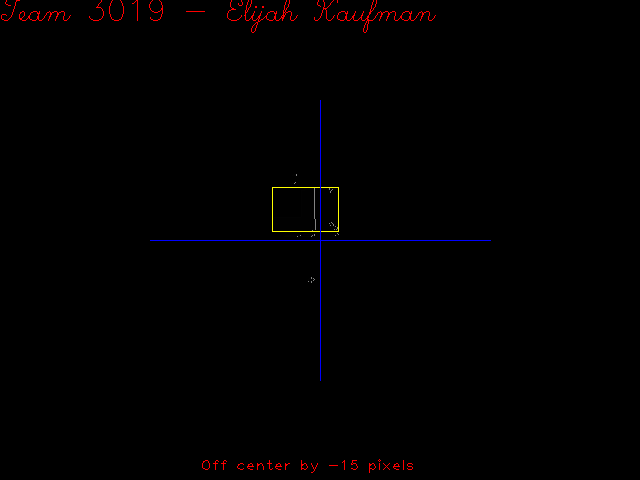
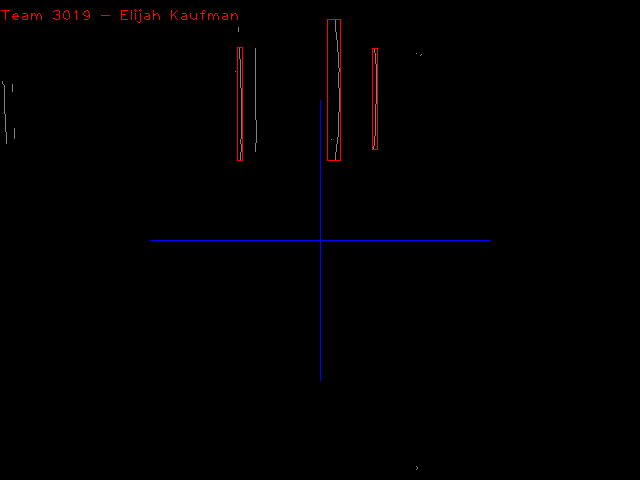
added more features

diff --git a/src/com/team3019/VisionCode/YellowToteTracker.java b/src/com/team3019/VisionCode/YellowToteTracker.java
@@ -18,6 +18,8 @@ import org.opencv.core.Scalar;
 import org.opencv.highgui.Highgui;
 import org.opencv.imgproc.Imgproc;
 
+import edu.wpi.first.wpilibj.networktables.NetworkTable;
+
 /*
  * @author: Elijah Kaufman and his team
  * 
@@ -27,7 +29,8 @@ import org.opencv.imgproc.Imgproc;
 
 
 public class YellowToteTracker{
-	public static Scalar Red,Blue,Green,Yellow,thresh_Lower,thresh_Higher;
+	public static Scalar Red,Blue,Green,Yellow,thresh_Lower,thresh_Higher,grey_Lower,grey_higher;
+	static NetworkTable table;
 	public static void main(String[] args) {
 		//required for openCV to work -call before any functions of oCV are used
 		System.loadLibrary(Core.NATIVE_LIBRARY_NAME);
@@ -35,15 +38,24 @@ public class YellowToteTracker{
 		Blue = new Scalar(255, 0, 0);
 		Green = new Scalar(0, 255, 0);
 		Yellow = new Scalar(0, 255, 255);
-		thresh_Lower = new Scalar(50,145,0);
-		thresh_Higher = new Scalar(255,255,60);
+		//for tape
+		thresh_Lower = new Scalar(62,102,0);
+		thresh_Higher = new Scalar(255,255,47);
+		//for grey tote
+		grey_Lower = new Scalar(48,60,35);
+		grey_higher = new Scalar(81,84,54);
 		
-		
+		NetworkTable.setClientMode();
+		NetworkTable.setIPAddress("roborio-3019.local");
+		table = NetworkTable.getTable("SmartDashboard");
 		
 		//main loop of the program
+		
 		while(true){
 			try {
-				processImage();
+				while(table.isConnected()){
+					processImage();
+				}
 			} catch (Exception e) {
 				// TODO Auto-generated catch block
 				e.printStackTrace();
@@ -63,10 +75,12 @@ public class YellowToteTracker{
 			ImageIO.write(img, "png", new File("frame.png"));
 			//time for the OpenCV fun!
 			Mat frame = new Mat();
-			frame = Highgui.imread("frame.png");
+			Mat grey = new Mat();
+			Mat original = new Mat();
+			original = Highgui.imread("frame.png");
 			ArrayList<MatOfPoint> contours = new ArrayList<>();
 			//applies a threshhold in the form of BlueGreenRed
-			Core.inRange(frame, thresh_Lower, thresh_Higher, frame);
+			Core.inRange(original, thresh_Lower, thresh_Higher, frame);
 			//find the cluster of particles
 			Imgproc.findContours(frame, contours, new Mat(), Imgproc.RETR_EXTERNAL, Imgproc.CHAIN_APPROX_SIMPLE);
 			Imgproc.cvtColor(frame, frame, Imgproc.COLOR_GRAY2BGR);
@@ -143,6 +157,7 @@ public class YellowToteTracker{
 						string = "Two totes stacked";
 						Core.line(frame, new Point(bb1.x+bb1.width/2,bb1.y+bb1.height/2),
 								new Point(bb2.x+bb2.width/2,bb2.y+bb2.height/2), Green);
+						//System.out.println(Math.abs((bb1.y + bb1.height/2) - (bb2.y + bb2.height)));
 					}
 					else{
 					string = "Two totes found";
@@ -151,15 +166,65 @@ public class YellowToteTracker{
 				else{
 					//knowing how far off the center of the image you can set your robot to align with it, essentially going towards it
 					string = "Off center by " + (bb1.x + bb1.width/2 - 320) + " pixels";
+					table.putNumber("Off Center", (bb1.x + bb1.width/2 - 320));
+					int print = bb1.width;
+					System.out.println(print / 640.0);
+					table.putNumber("ToteToScreen", bb1.width / 640.0);
 				}
 				//putting the data in a visible form
 				Core.putText(frame, string, new Point(200,frame.size().height-10), Core.FONT_HERSHEY_PLAIN, 1, Red);
 			}
+			else if(contours.size() == 3){
+				ArrayList<Rect> rect = new ArrayList<>();
+				for(MatOfPoint mOP : contours){
+					rect.add(Imgproc.boundingRect(mOP));
+					Rect temp = rect.get(rect.size()-1);
+					Core.rectangle(frame, temp.br(),temp.tl(), Red);
+				}
+				for(int i = 1; i < contours.size();i++){
+					if(Math.abs(rect.get(i).y - rect.get(i-1).y) < 5){
+						
+						Rect r1 = rect.get(i);
+						Rect r2 = rect.get(i-1);
+						Point tl = r1.tl();
+						Point br = r1.br();
+						if(tl.x > r2.tl().x){
+							tl.x = r2.tl().x;
+						}
+						if(tl.y > r2.tl().y){
+							tl.y = r2.tl().y;
+						}
+						if(br.x < r2.br().x){
+							br.x = r2.br().x;
+						}
+						if(br.y < r2.br().y){
+							br.y = r2.br().y;
+						}
+						break;
+					}
+				}
+			}
 			else{
+				
 				for(MatOfPoint mOP : contours){
 					Rect rec = Imgproc.boundingRect(mOP);
-					Core.rectangle(frame, rec.tl(), rec.br(), Yellow);
+					Core.rectangle(frame, rec.tl(), rec.br(), Red);
 				}
+			}
+			//processing for grey totes
+			Core.inRange(original, grey_Lower, grey_higher, grey);
+			Imgproc.findContours(grey, contours, new Mat(), Imgproc.RETR_EXTERNAL, Imgproc.CHAIN_APPROX_SIMPLE);
+			Imgproc.cvtColor(grey, grey, Imgproc.COLOR_GRAY2BGR);
+			//iterating through the list of contours and removing the ones with an "area" less then 100
+			for (Iterator<MatOfPoint> iterator = contours.iterator(); iterator.hasNext();) {
+				MatOfPoint matOfPoint = (MatOfPoint) iterator.next();
+				if(matOfPoint.width() * matOfPoint.height() < 150){
+					iterator.remove();
+				}	
+			}
+			for(MatOfPoint mop : contours){
+				Rect bb = Imgproc.boundingRect(mop);
+				Core.rectangle(grey, bb.tl(), bb.br(), Red);
 			}
 			//gui on the image
 			Core.line(frame, new Point(frame.width()/2,100),new Point(frame.width()/2,frame.height()-100), Blue);
@@ -169,6 +234,7 @@ public class YellowToteTracker{
 			//view this file to see the vision tracking
 			//windows will update the image after every save
 			Highgui.imwrite("rectangle.png", frame);
+			//Highgui.imwrite("grey.jpg", grey);
 		//mostly for debugging but errors happen
 		} catch (Exception e) {
 			// TODO Auto-generated catch block
